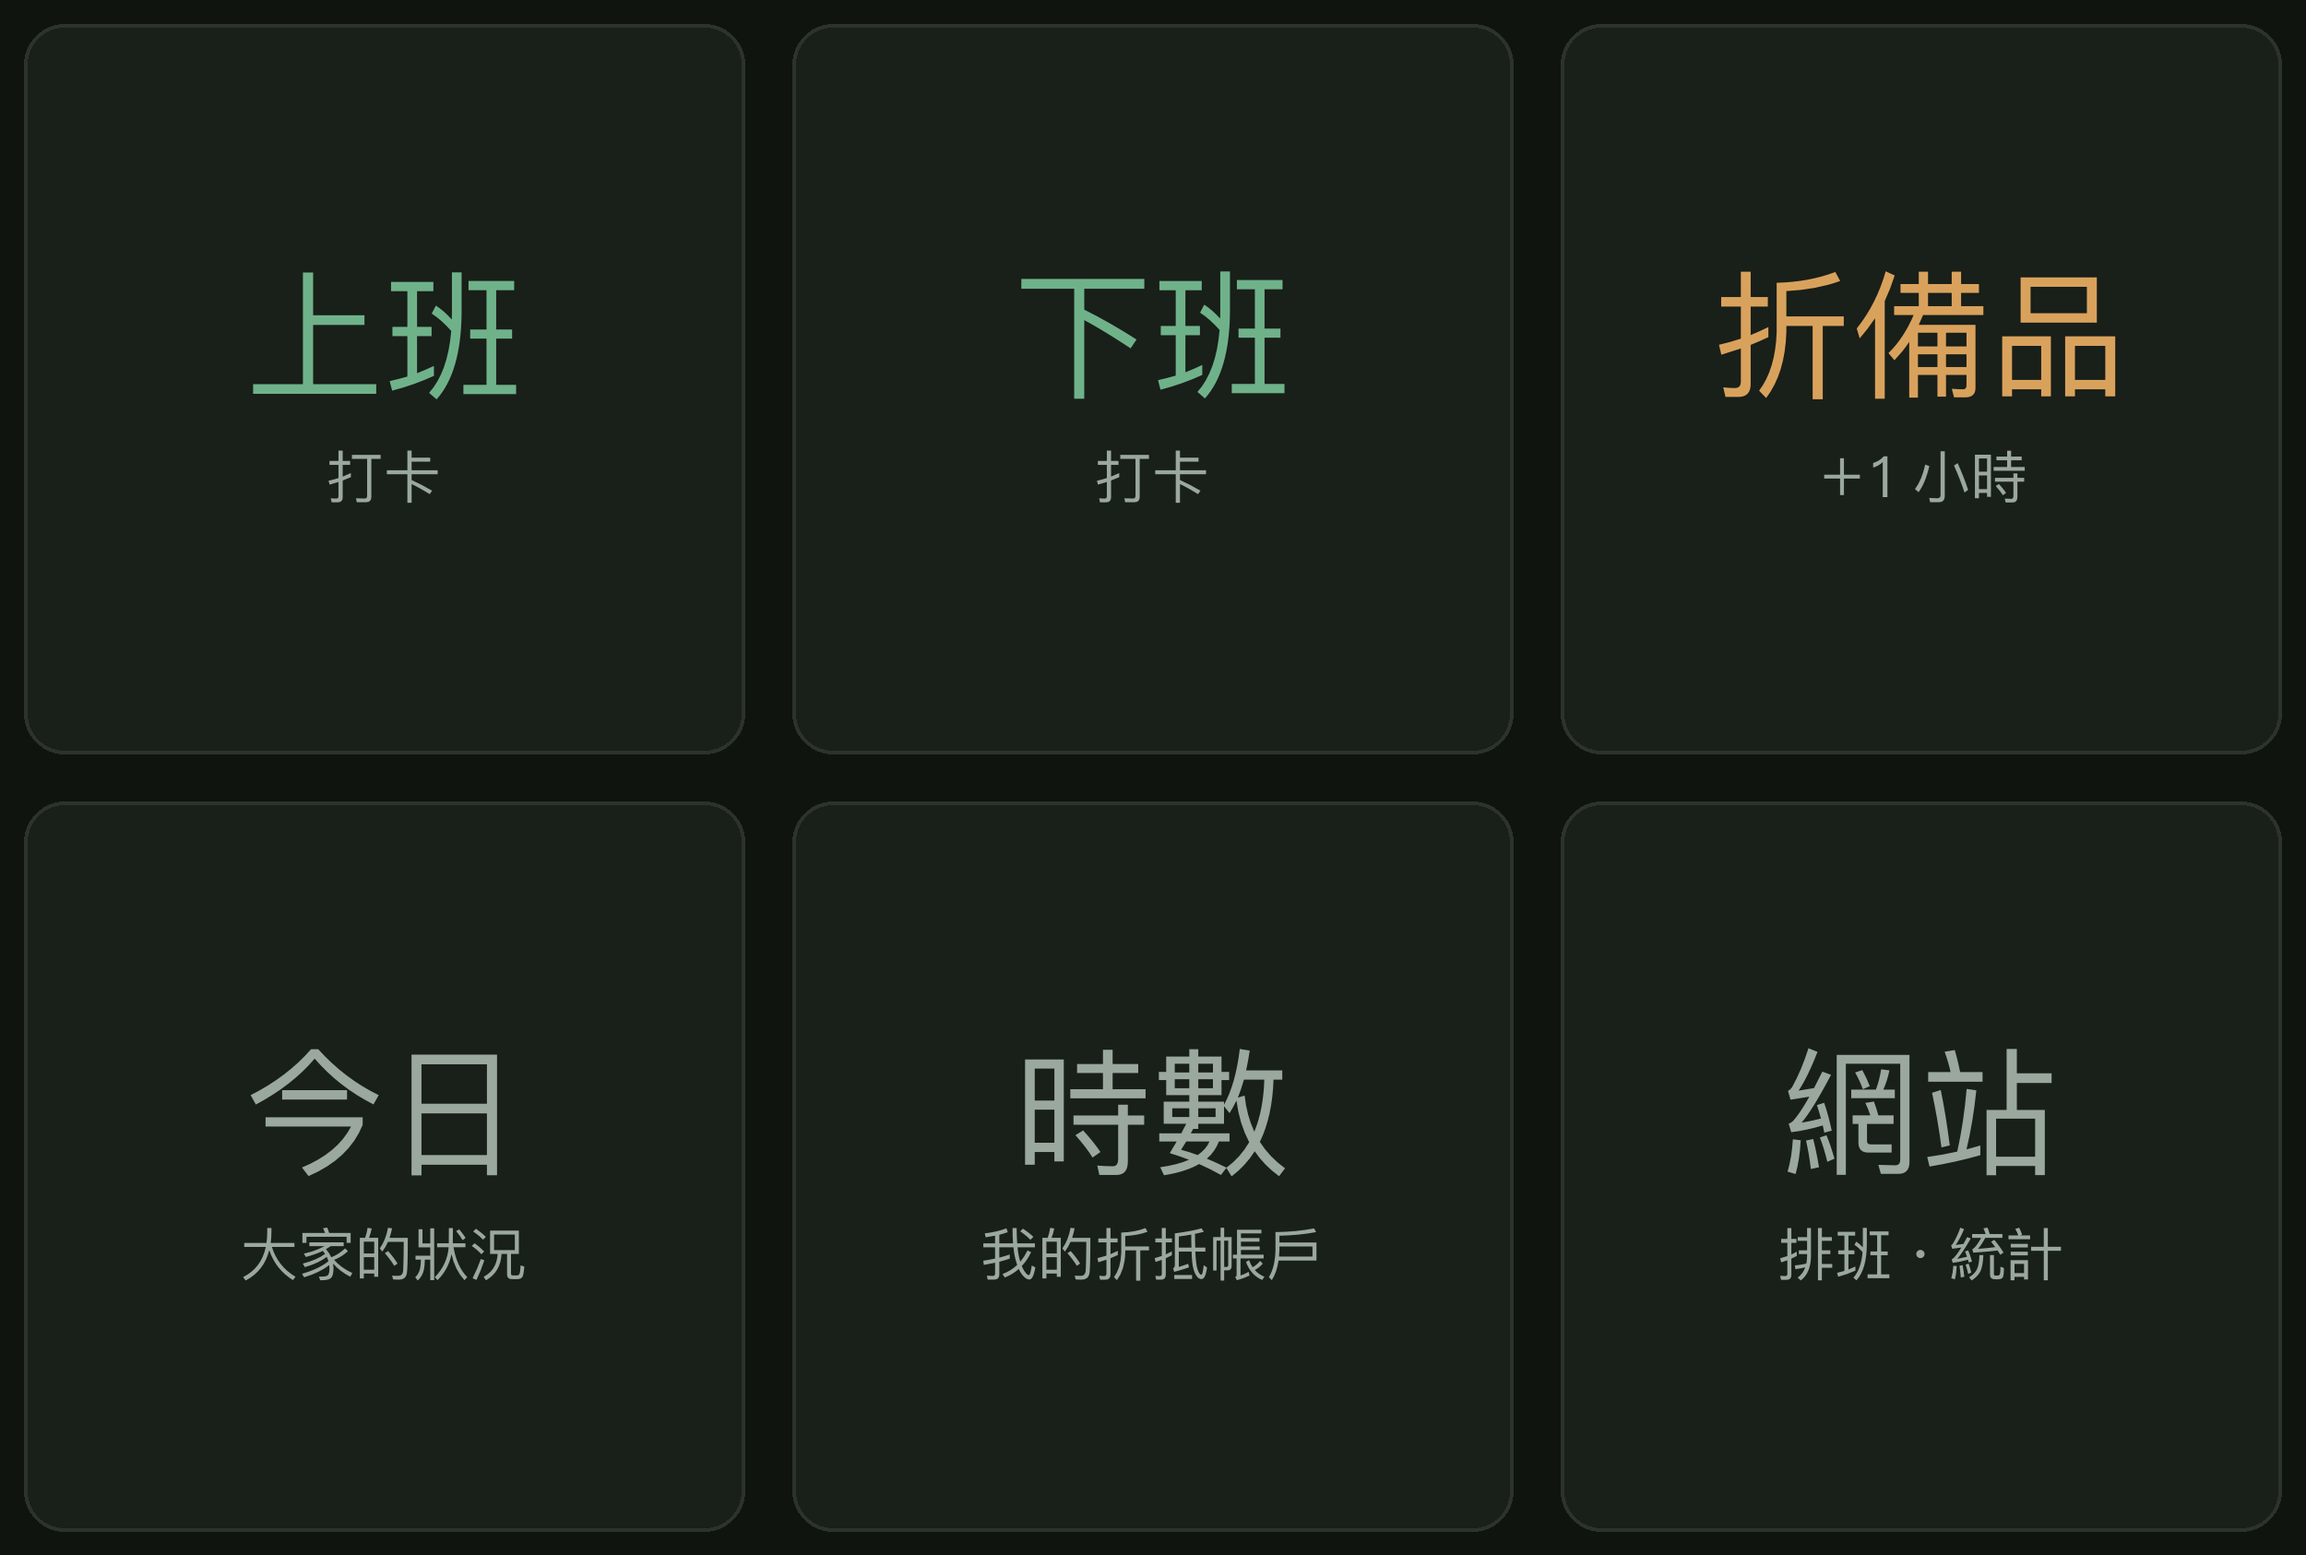
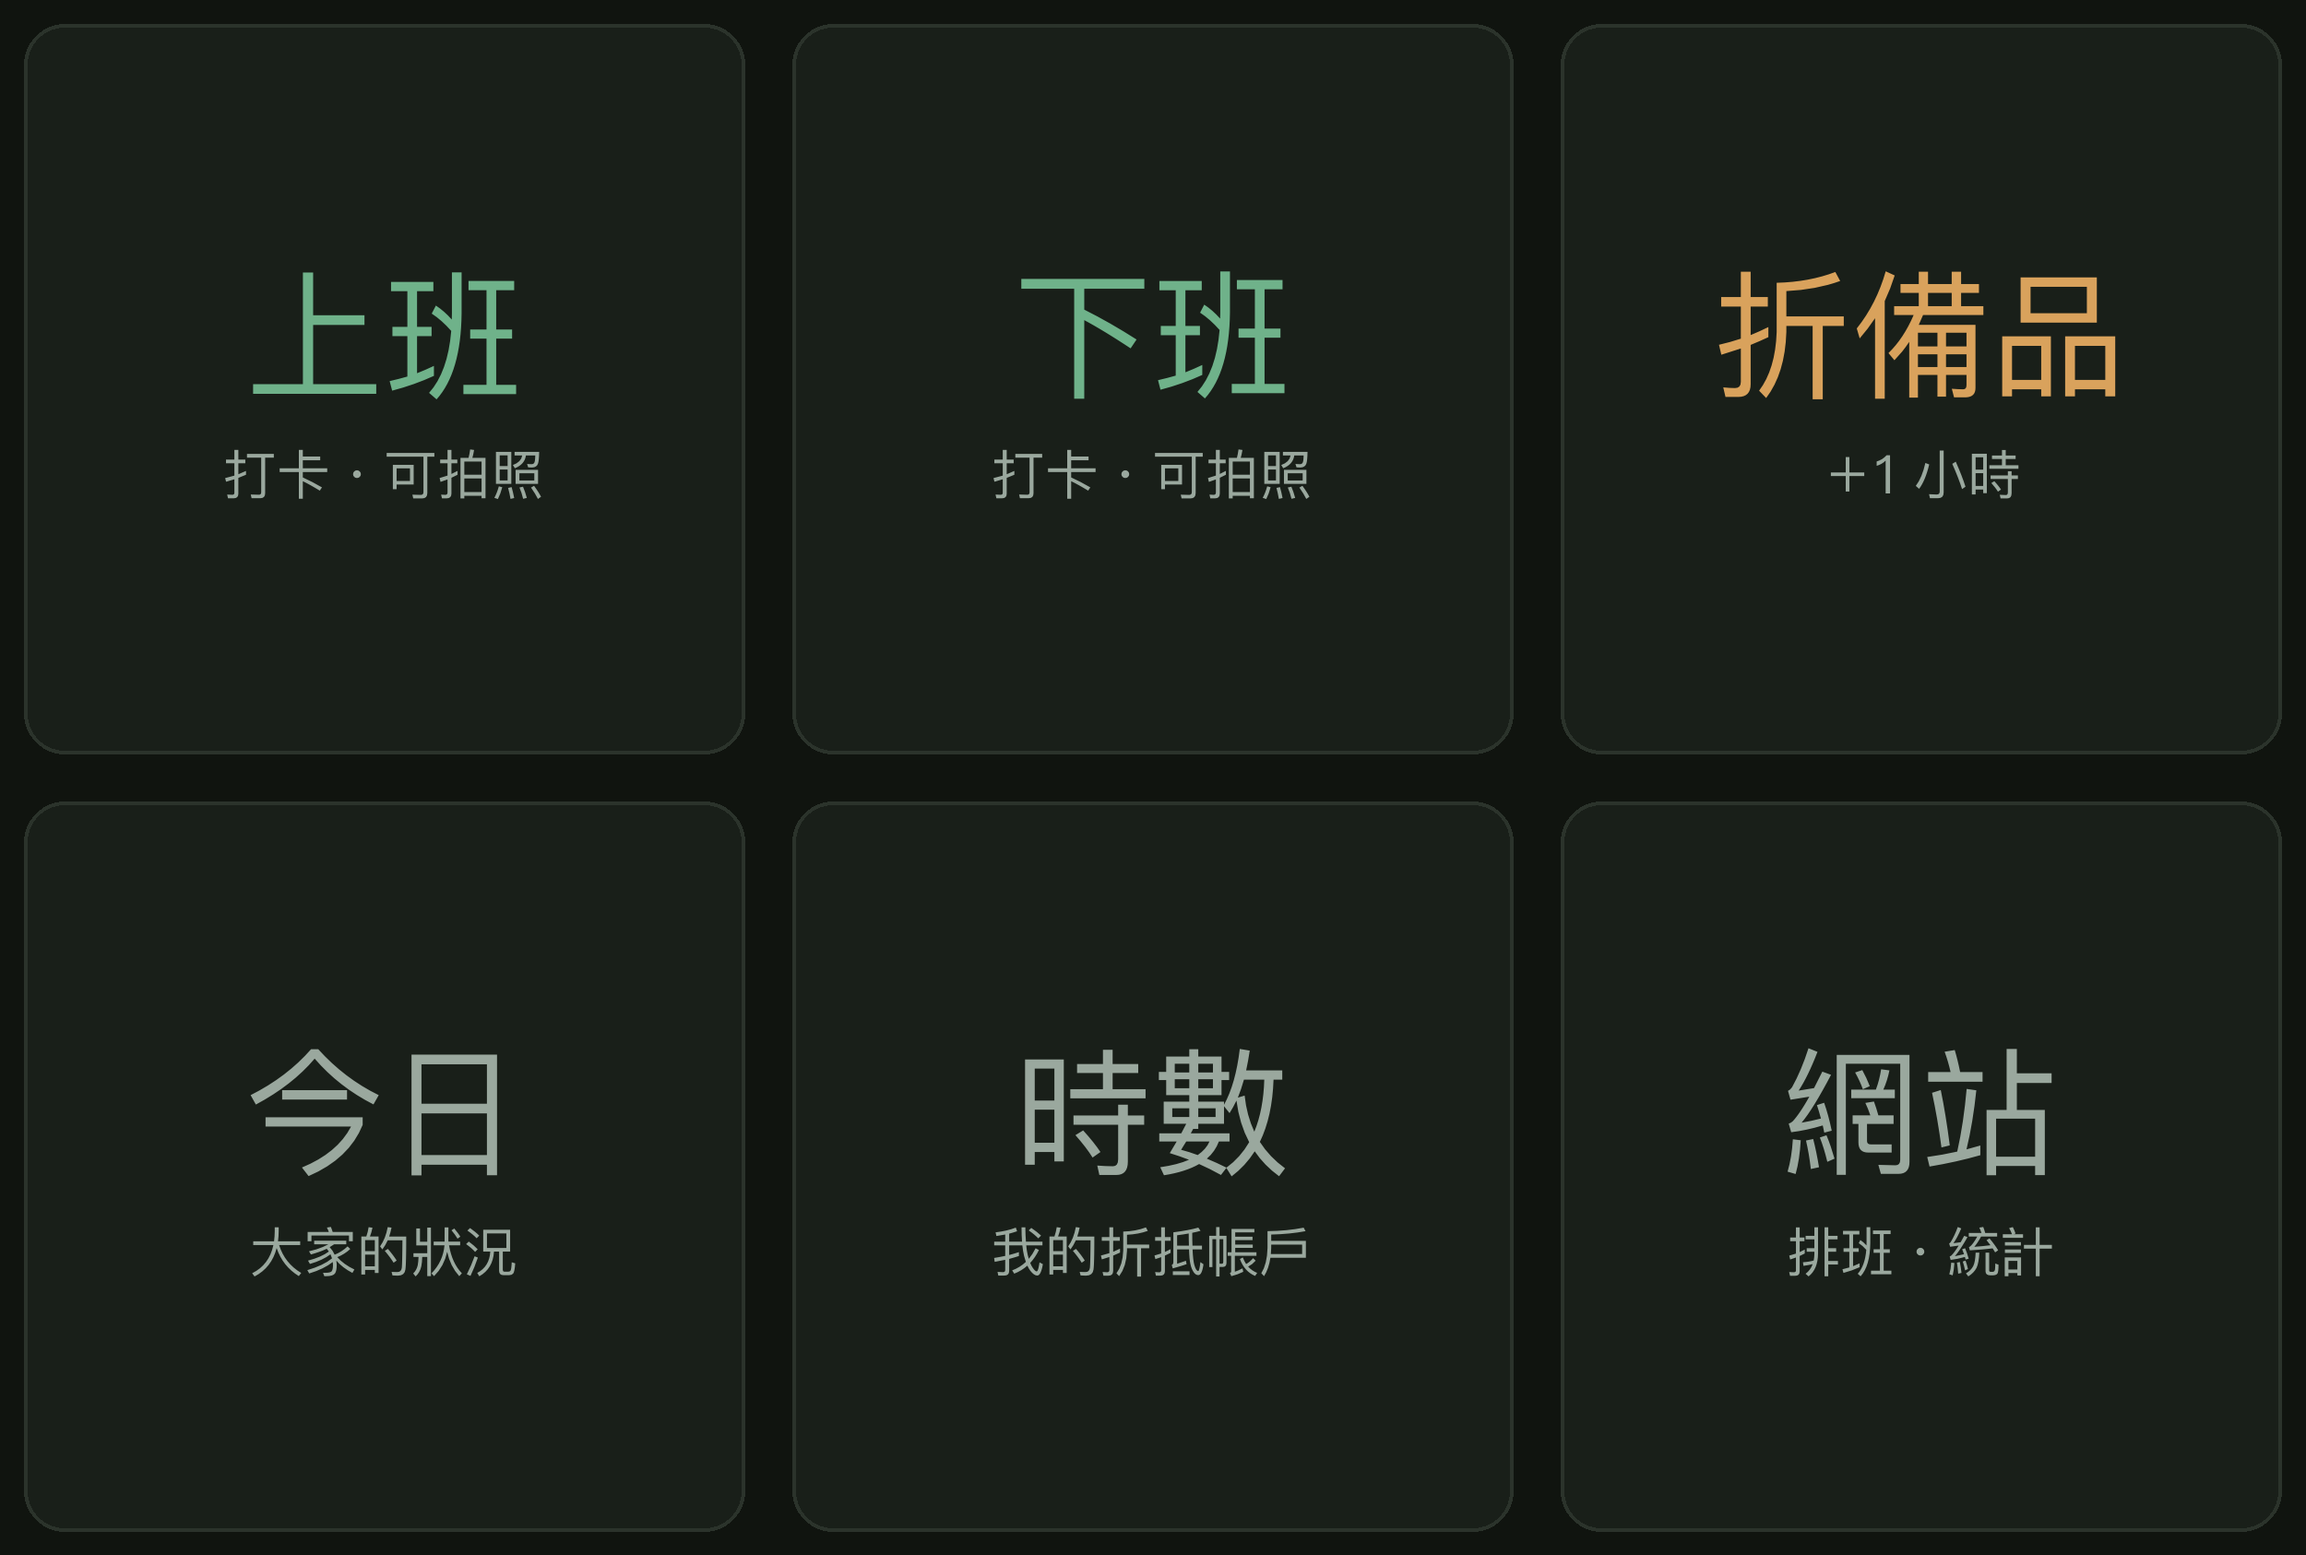
feat: LINE 拍照打卡
- 打完卡跳出「📷 拍照／🖼 從相簿選」快速回覆（圖文選單不支援相機動作）
- 收到圖片訊息 → 存進 Google Drive「森林屋打卡照片」→ 掛回那筆打卡
- 10 分鐘內的照片自動對應剛剛那次打卡，超過就掛當天最後一次
- 網站可顯示 Drive 上的照片（gd:fileId），載不出來時換備用網址
- PHOTO_OPEN 可切換照片要不要開放連結觀看

diff --git a/index.html b/index.html
@@ -319,7 +319,7 @@ td.num,th.num{text-align:right;font-family:var(--mono);font-variant-numeric:tabu
         <button class="btn" id="btnCloudOn">連線並同步</button>
         <button class="btn ghost" id="btnCloudOff">改回只存這台</button>
       </div>
-      <div class="hint">連上之後，三個人（含 LINE 打的卡）看到的是同一本帳。照片還是只留在拍照的那台裝置，不會上傳。</div>
+      <div class="hint">連上之後，三個人（含 LINE 打的卡）看到的是同一本帳。<b>用 LINE 拍的照片存在 Google Drive，三個人都看得到</b>；用這個網頁拍的照片只留在拍照的那台裝置。</div>
     </div>
     <div class="card">
       <h2>備份與還原</h2>
@@ -616,8 +616,16 @@ function shrink(file){
   });
 }
 const photoUrls = {};
+function driveThumb(fileId, w){ return 'https://drive.google.com/thumbnail?id='+fileId+'&sz=w'+(w||600); }
+/** Drive 縮圖偶爾會擋，換另一個網址再試一次 */
+function imgAlt(el){
+  const m = el.src.match(/[?&]id=([^&]+)/);
+  if(m && !el.dataset.retried){ el.dataset.retried='1'; el.src='https://lh3.googleusercontent.com/d/'+m[1]+'=w600'; }
+  else { el.closest('figure') ? el.closest('figure').remove() : el.remove(); }
+}
 async function photoUrl(id){
   if(!id) return null;
+  if(id.indexOf('gd:') === 0) return driveThumb(id.slice(3));   // LINE 拍的，存在 Google Drive
   if(photoUrls[id]) return photoUrls[id];
   const b = await idbGet('photos',id);
   if(!b) return null;
@@ -730,7 +738,7 @@ async function renderPunch(){
     if(rr && !rr.in && cc.used) st = `<span class="tag">抵用 ${hrs(cc.used)}h</span>`;
     const pu = await photoUrl(rr && rr.inPhoto);
     return `<tr><td>${e.name}${isFold(ds,e.id)?' <span class="tag fold">折</span>':''}</td><td>${st}</td>
-      <td class="num">${pu?`<img src="${pu}" style="width:34px;height:34px;object-fit:cover;border-radius:7px;cursor:zoom-in" data-zoom="${pu}">`:''}</td></tr>`;
+      <td class="num">${pu?`<img src="${pu}" onerror="imgAlt(this)" style="width:34px;height:34px;object-fit:cover;border-radius:7px;cursor:zoom-in" data-zoom="${pu}">`:''}</td></tr>`;
   }));
   $('#todayCard').innerHTML = `<h2>今天大家的狀況</h2><table><tbody>${rows.join('')}</tbody></table>`;
   bindZoom($('#todayCard'));
@@ -829,8 +837,8 @@ async function renderRecs(){
       </div>
       ${r.note?`<div class="muted" style="margin-top:6px">📝 ${r.note}</div>`:''}
       ${(pi||po)?`<div class="shots">
-        ${pi?`<figure><img src="${pi}" data-zoom="${pi}"><figcaption>上班</figcaption></figure>`:''}
-        ${po?`<figure><img src="${po}" data-zoom="${po}"><figcaption>下班</figcaption></figure>`:''}
+        ${pi?`<figure><img src="${pi}" onerror="imgAlt(this)" data-zoom="${pi}"><figcaption>上班</figcaption></figure>`:''}
+        ${po?`<figure><img src="${po}" onerror="imgAlt(this)" data-zoom="${po}"><figcaption>下班</figcaption></figure>`:''}
       </div>`:''}
     </div>`;
   }));
@@ -871,8 +879,8 @@ function editRecord(ds,emp){
   };
   $('#sheet').querySelector('[data-del]').onclick = async ()=>{
     if(!confirm('確定刪除這天的紀錄？照片也會一起刪掉。')) return;
-    if(r.inPhoto) await idbDel('photos',r.inPhoto);
-    if(r.outPhoto) await idbDel('photos',r.outPhoto);
+    if(r.inPhoto && r.inPhoto.indexOf('gd:')!==0) await idbDel('photos',r.inPhoto);
+    if(r.outPhoto && r.outPhoto.indexOf('gd:')!==0) await idbDel('photos',r.outPhoto);
     delete S.records[k]; save(); closeSheet(); renderAll(); toast('已刪除');
   };
 }

diff --git a/SETUP-LINE.md b/SETUP-LINE.md
@@ -2,7 +2,7 @@
 
 照著做大約 30 分鐘。**所有鑰匙都是你自己貼進去的，不用給任何人。**
 
-做完之後：在 LINE 按「上班」→ 機器人回「✅ Chloe 上班 16:02」→ 紀錄進 GitHub → 網站看得到，三個人同一本帳。
+做完之後：在 LINE 按「上班」→ 機器人回「✅ Chloe 上班 16:02」+ 一顆 **📷 拍照** 按鈕 → 拍完照片自動附上去 → 紀錄進 GitHub、照片進 Google Drive → 網站看得到，三個人同一本帳。
 
 ---
 
@@ -52,11 +52,13 @@ LINE 官方帳號預設只會回罐頭訊息，要能記時間得先開 Messagin
    | `GH_PATH` | `data/records.json` |
    | `WEB_KEY` | 自己想一組通關密語，例如 `forest0821`（等一下網站要填同一組） |
    | `SITE_URL` | `https://peiyunchiu.github.io/forest-shift-clock/` |
+   | `PHOTO_OPEN` | `yes`（照片要能在網站上看到就填 yes；填 no 的話照片只有你自己在 Drive 看得到） |
 
    全部填完按 **儲存指令碼屬性**
 
 4. 回編輯器，上方函式選單選 **checkSetup** → 按 **執行**
    - 第一次會跳授權：**審查權限 → 選你的 Google 帳號 → 進階 → 前往「森林屋打卡機器人」→ 允許**
+   - 它會要「查看及管理雲端硬碟檔案」的權限，那是拿來存打卡照片的（會自動建一個叫 **森林屋打卡照片** 的資料夾）
    - 下方紀錄應該全部 ✅。有 ❌ 就照上面的表回去補
 5. 函式選單改選 **setupRichMenu** → **執行** → 看到「圖文選單建好了 ✅」就成功
 6. 右上 **部署 → 新增部署** → 齒輪選 **網頁應用程式** →
@@ -97,8 +99,8 @@ LINE 官方帳號預設只會回罐頭訊息，要能記時間得先開 Messagin
 
 | 按鈕 | 做什麼 |
 |---|---|
-| **上班** | 記下現在時間當上班時間 |
-| **下班** | 記下班時間，順便回報今天做了幾小時、加班還是不足 |
+| **上班** | 記下現在時間當上班時間，然後問你要不要拍照 |
+| **下班** | 記下班時間，順便回報今天做了幾小時、加班還是不足，然後問你要不要拍照 |
 | **折備品** | ＋1 小時進帳戶。同一天按兩次就是 2 小時；也可以打「折備品 2」直接指定 |
 | **今日** | 三個人今天各自的狀況 |
 | **時數** | 我的折抵帳戶：累積、已抵、還可以抵幾小時 |
@@ -106,12 +108,26 @@ LINE 官方帳號預設只會回罐頭訊息，要能記時間得先開 Messagin
 
 打字也行，不一定要按選單：上班、下班、折備品、今日、時數。
 
+## 拍照打卡怎麼運作
+
+LINE 的圖文選單按鈕**沒辦法**直接叫出相機（LINE 只開放連結、傳訊息那幾種動作），所以繞成兩步：
+
+1. 按 **上班** → 時間立刻記好（不會因為沒拍照就不算）
+2. 訊息下面跳出 **📷 拍照** ／ **🖼 從相簿選** ／ **不用了**
+3. 按 📷 → LINE 直接開相機 → 拍完自動送出 → 機器人回「📸 照片存好了」
+
+- 照片存進你 Google Drive 的 **森林屋打卡照片** 資料夾，檔名長這樣：`2026-08-31_Chloe_上班.jpg`
+- **打完卡 10 分鐘內傳的照片**都會自動附到那一筆；超過 10 分鐘才傳，就會附到當天最後一次打卡
+- 不想拍就不拍，打卡照樣算數
+- 手機版 LINE 才有相機按鈕，電腦版按了沒反應（電腦版可以直接拖照片進聊天室）
+- `PHOTO_OPEN` 填 `yes` 時，照片會設成「知道連結的人可以看」，網站的「紀錄」頁才顯示得出來。介意的話填 `no`，照片就只有你在 Drive 看得到
+
 ---
 
 ## 幾件要知道的事
 
 - **這個後端網址等於一把鑰匙**，別貼到公開的地方。Google Apps Script 收不到 LINE 的驗證標頭，所以網址外流的話別人就能偽造打卡。
 - **打卡紀錄是公開的**（你選的）。`data/records.json` 在公開 repo 裡，任何人拿到網址都看得到誰幾點上下班。之後想改成私密再跟我說。
-- **照片不會上雲端**。LINE 打卡本來就沒照片；網頁拍的照片只留在拍照的那台裝置。
+- **照片分兩種**：LINE 拍的存在你 Google Drive，三個人在網站都看得到；用網頁拍的只留在拍照的那台裝置，不會上傳。
 - **改了程式碼要重新部署**才會生效：部署 → **管理部署** → 鉛筆 → 版本選 **新版本** → 部署。網址不會變。
 - 機器人壞掉時，網站本身照常能用（會顯示 ⚠），修好後未同步的紀錄會自動補上去。

diff --git a/README.md b/README.md
@@ -10,7 +10,7 @@
 - **手機（推薦，因為要拍照）**：開上面那個網址，用 Safari／Chrome 的「加入主畫面」，用起來就像 App。
 - **電腦**：一樣開網址就好。想離線用就下載 `index.html`，右鍵 →「打開檔案的應用程式」→ **Chrome**（Safari 直接開本機檔會擋住網頁存資料，開起來會跳紅色警告）。
 
-> ⚠ 網址版和本機檔案版是**兩個各自獨立的資料空間**，紀錄不會互通。挑一個固定用；真要搬家就用「設定 → 下載備份檔」再到另一邊「還原備份」。
+> ⚠ 沒接 LINE／雲端時，網址版和本機檔案版是**兩個各自獨立的資料空間**，紀錄不會互通。接上雲端後就都看同一份。
 
 ## 工時規則
 
@@ -54,10 +54,11 @@
 
 ## 用 LINE 打卡（選配）
 
-接上 LINE 官方帳號後，在 LINE 按一下就能打卡，三個人的紀錄會匯到同一份 `data/records.json`，網站讀的也是這一份。
+接上 LINE 官方帳號後，在 LINE 按一下就能打卡（還能拍照存證），三個人的紀錄匯到同一份 `data/records.json`，網站讀的也是這一份。
 
 ```
 LINE 按「上班」→ Apps Script 收到 → 寫進 GitHub → 網站顯示
+         └→ 跳「📷 拍照」→ 照片存進 Google Drive → 網站也看得到
 ```
 
 - 設定步驟：[SETUP-LINE.md](SETUP-LINE.md)
